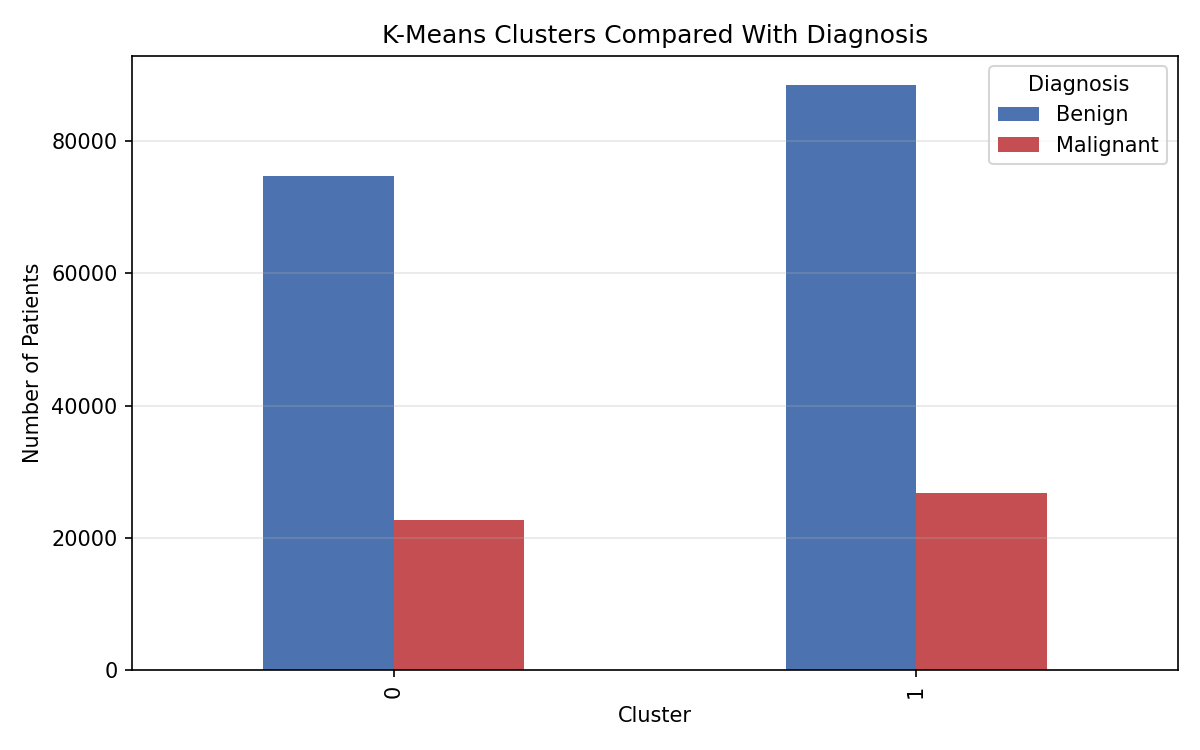
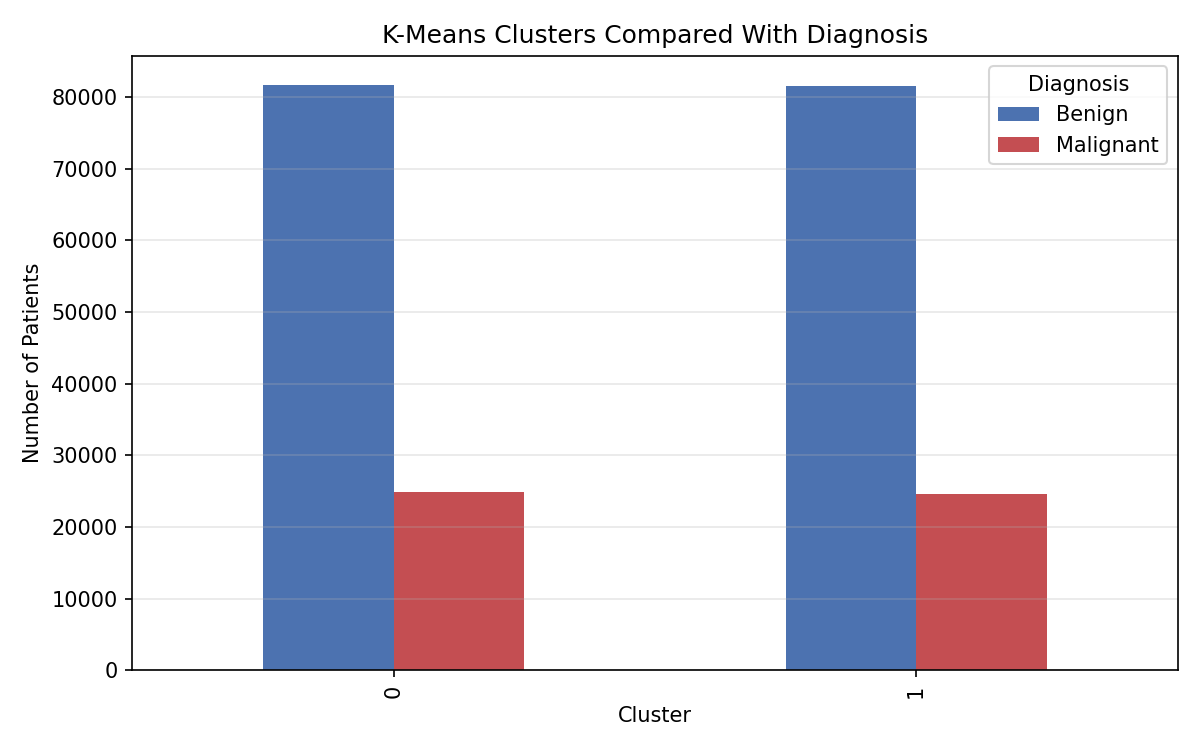
updated P4

diff --git a/src/p4/feature_importance.py b/src/p4/feature_importance.py
@@ -24,7 +24,6 @@ matplotlib.use("Agg")
 import matplotlib.pyplot as plt
 import numpy as np
 import pandas as pd
-from scipy.stats import zscore
 
 from sklearn.base import clone
 from sklearn.cluster import KMeans
@@ -35,8 +34,9 @@ from sklearn.metrics import (
     normalized_mutual_info_score,
     precision_recall_curve,
 )
-from sklearn.model_selection import StratifiedKFold, cross_val_predict, train_test_split
-from sklearn.preprocessing import StandardScaler
+from sklearn.model_selection import StratifiedKFold, cross_val_predict
+
+from src.p1.preprocessing import load_and_preprocess as load_p1_preprocessed_data
 
 warnings.filterwarnings("ignore")
 
@@ -58,85 +58,25 @@ os.makedirs(P4_OUTPUT_DIR, exist_ok=True)
 
 def load_and_preprocess(data_path, random_state=42, test_size=0.2, verbose=True):
     """
-    Same preprocessing structure used in P3.
+    Load the same P1 preprocessing output used by P3.
 
     Returns scaled train/test features, labels, and feature names.
     Diagnosis is the target and is not included in X.
     """
-    continuous_cols = ["Age", "TSH_Level", "T3_Level", "T4_Level", "Nodule_Size"]
-    binary_cols = [
-        "Family_History",
-        "Radiation_Exposure",
-        "Iodine_Deficiency",
-        "Smoking",
-        "Obesity",
-        "Diabetes",
-    ]
-    engineered_cols = [
-        "TSH_T3_ratio",
-        "TSH_T4_ratio",
-        "T3_T4_ratio",
-        "Risk_count",
-        "Age_Nodule",
-    ]
-
-    df = pd.read_csv(data_path)
-    rows_before_null = len(df)
-    df.dropna(inplace=True)
-
-    z = df[continuous_cols].apply(zscore)
-    mask_clean = (z.abs() <= 3).all(axis=1)
-    df_clean = df[mask_clean].copy()
-
-    df_model = df_clean.copy()
-    df_model.drop(
-        columns=["Patient_ID", "Country", "Ethnicity", "Thyroid_Cancer_Risk"],
-        inplace=True,
-    )
-
-    for col in binary_cols:
-        df_model[col] = (df_model[col] == "Yes").astype(int)
-
-    df_model["Gender"] = (df_model["Gender"] == "Male").astype(int)
-
-    df_model["TSH_T3_ratio"] = df_model["TSH_Level"] / (df_model["T3_Level"] + 1e-6)
-    df_model["TSH_T4_ratio"] = df_model["TSH_Level"] / (df_model["T4_Level"] + 1e-6)
-    df_model["T3_T4_ratio"] = df_model["T3_Level"] / (df_model["T4_Level"] + 1e-6)
-    df_model["Risk_count"] = df_model[binary_cols].sum(axis=1)
-    df_model["Age_Nodule"] = df_model["Age"] * df_model["Nodule_Size"]
-
-    df_model["Diagnosis"] = (df_model["Diagnosis"] == "Malignant").astype(int)
-
-    X = df_model.drop(columns=["Diagnosis"])
-    y = df_model["Diagnosis"]
-    feature_names = X.columns.tolist()
-
-    X_train, X_test, y_train, y_test = train_test_split(
-        X,
-        y,
-        test_size=test_size,
+    result = load_p1_preprocessed_data(
+        data_path=data_path,
         random_state=random_state,
-        stratify=y,
+        test_size=test_size,
+        verbose=verbose,
     )
 
-    scaler = StandardScaler()
-    cols_to_scale = continuous_cols + engineered_cols
-
-    X_train_sc = X_train.copy()
-    X_test_sc = X_test.copy()
-
-    X_train_sc[cols_to_scale] = X_train_sc[cols_to_scale].astype(float)
-    X_test_sc[cols_to_scale] = X_test_sc[cols_to_scale].astype(float)
-
-    X_train_sc[cols_to_scale] = scaler.fit_transform(X_train[cols_to_scale])
-    X_test_sc[cols_to_scale] = scaler.transform(X_test[cols_to_scale])
+    if len(result) == 6:
+        X_train_sc, X_test_sc, y_train, y_test, feature_names, _ = result
+    else:
+        X_train_sc, X_test_sc, y_train, y_test, feature_names = result
 
     if verbose:
-        print(f"Loaded {rows_before_null:,} rows.")
-        print(f"After null removal and outlier filtering: {len(df_model):,} rows.")
-        print(f"Features used for P4: {feature_names}")
-        print(f"Training rows: {len(X_train_sc):,}")
-        print(f"Test rows: {len(X_test_sc):,}")
+        print("\nP4 is using the same preprocessed feature matrix as P3.")
 
     return X_train_sc, X_test_sc, y_train, y_test, feature_names
 
@@ -146,8 +86,41 @@ def load_and_preprocess(data_path, random_state=42, test_size=0.2, verbose=True)
 
 def load_best_p3_model():
     """
-    Load the single best model selected by P3.
+    Load the best model selected by P3.
+
+    Current P3 writes a model bundle to trained_models.joblib and a summary to
+    model_summary.json. Older runs may also have best_model_meta.json and
+    best_model.joblib, so those are kept as a fallback.
     """
+    bundle_path = os.path.join(P3_OUTPUT_DIR, "trained_models.joblib")
+    summary_path = os.path.join(P3_OUTPUT_DIR, "model_summary.json")
+
+    if os.path.exists(bundle_path):
+        try:
+            bundle = joblib.load(bundle_path)
+        except Exception as exc:
+            print(
+                "\nCould not load P3 trained_models.joblib bundle; "
+                f"falling back to best_model.joblib. ({exc})"
+            )
+        else:
+            model = bundle["best_model"]
+
+            if os.path.exists(summary_path):
+                with open(summary_path, "r") as fh:
+                    meta = json.load(fh)
+            else:
+                meta = {}
+
+            meta.setdefault("name", meta.get("best_model", "Best P3 model"))
+            meta.setdefault("selected_features", bundle.get("selected_features", []))
+
+            print("\nBest P3 model loaded:")
+            print(f"  Model:             {meta['name']}")
+            print(f"  Selected features: {meta['selected_features']}")
+
+            return meta, model
+
     meta_path = os.path.join(P3_OUTPUT_DIR, "best_model_meta.json")
 
     with open(meta_path, "r") as fh:
